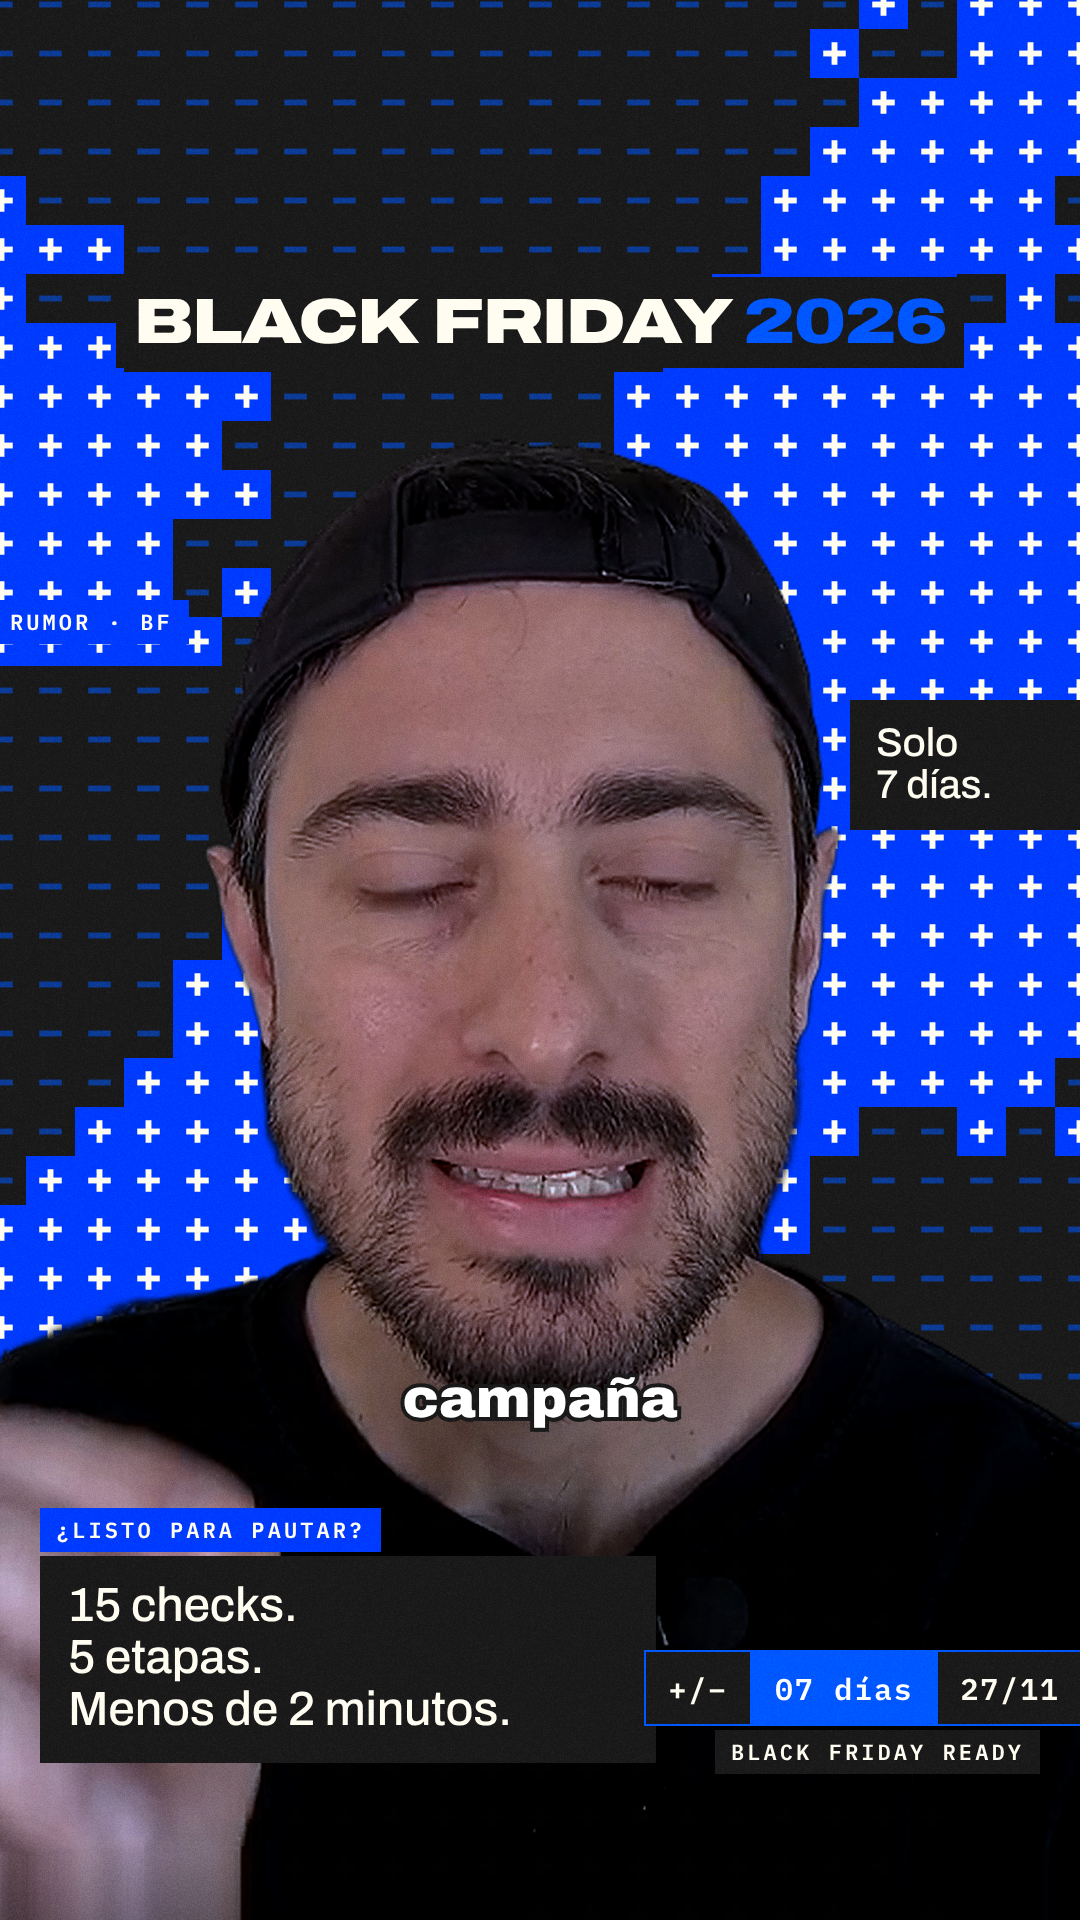
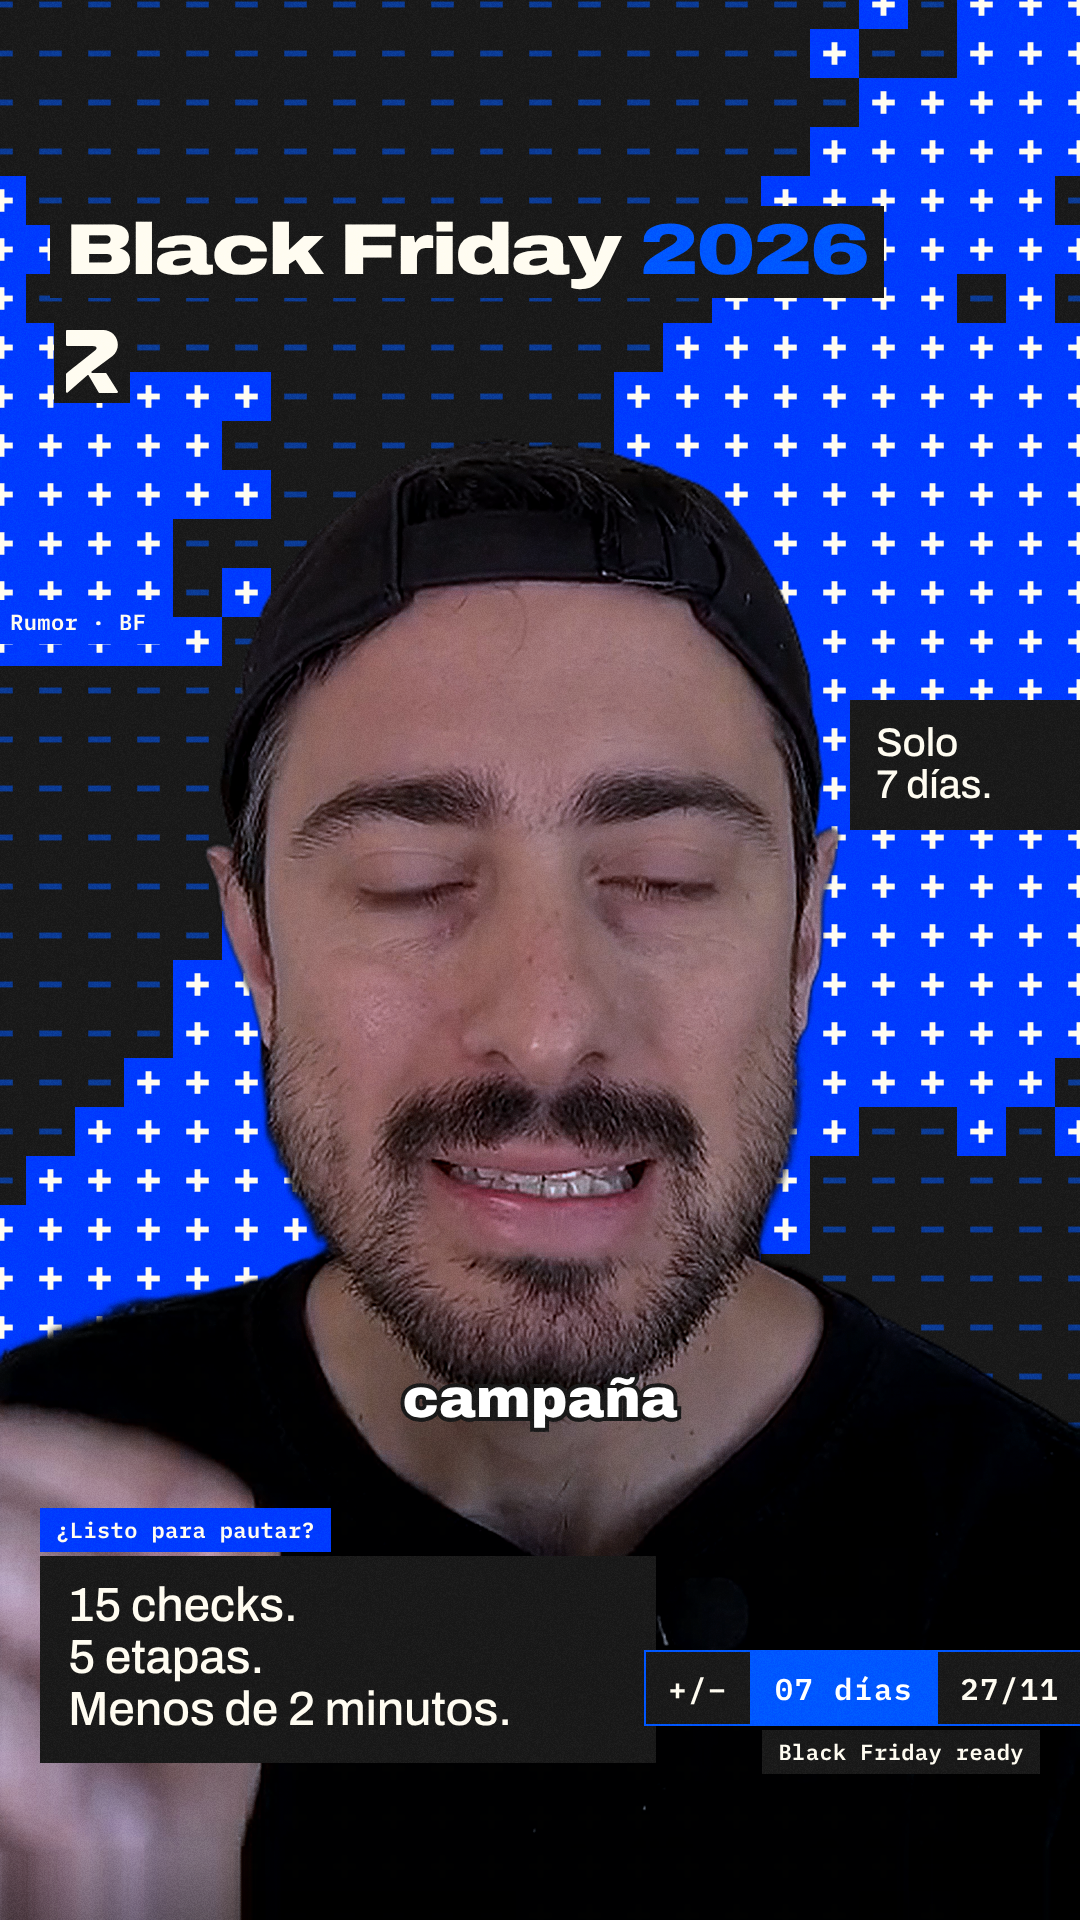
Reel BF: título con fondo negro y más arriba
Claude-Session: https://claude.ai/code/session_012Fnto9jpQe32MrKx8Y2jJE

diff --git a/video/reel/prueba.html b/video/reel/prueba.html
@@ -15,12 +15,12 @@
 
   /* Título fijo arriba (dentro de zona segura) */
   /* Título como el footer del artefacto: alineado a la izquierda + isotipo */
-  .title{position:absolute;left:66px;top:286px;display:flex;flex-direction:column;align-items:flex-start;gap:22px}
+  .title{position:absolute;left:66px;top:206px;display:flex;flex-direction:column;align-items:flex-start;gap:22px}
   .title b{font-weight:900;font-stretch:125%;font-variation-settings:"wdth" 125;font-size:72px;line-height:1;letter-spacing:-.02em;color:var(--paper)}
   .title em{font-style:normal;color:var(--blue2)}
   .title svg{width:52px;height:auto;display:block}
-  .con-fondo .title b{background:var(--black);padding:8px 16px 12px;margin-left:-16px}
-  .con-fondo .title svg{background:var(--black);padding:10px 12px;margin-left:-12px;box-sizing:content-box}
+  .title b{background:var(--black);padding:8px 16px 12px;margin-left:-16px}
+  .title svg{background:var(--black);padding:10px 12px;margin-left:-12px;box-sizing:content-box}
 
   /* Recuadros con copies (estilo Boolean Sequence) */
   .box{position:absolute;background:var(--black);color:var(--paper);font-weight:500;font-size:31px;line-height:1.18;padding:18px 22px 20px;letter-spacing:-.005em}
